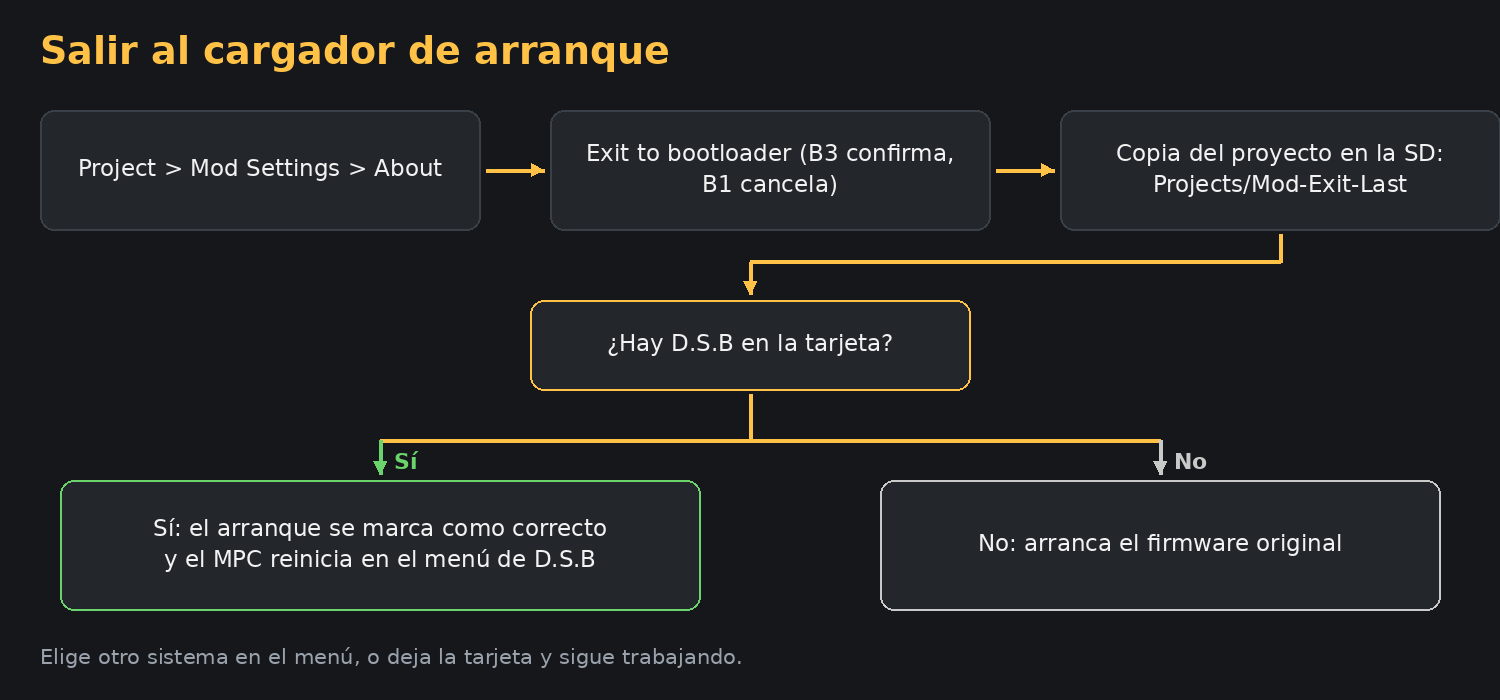
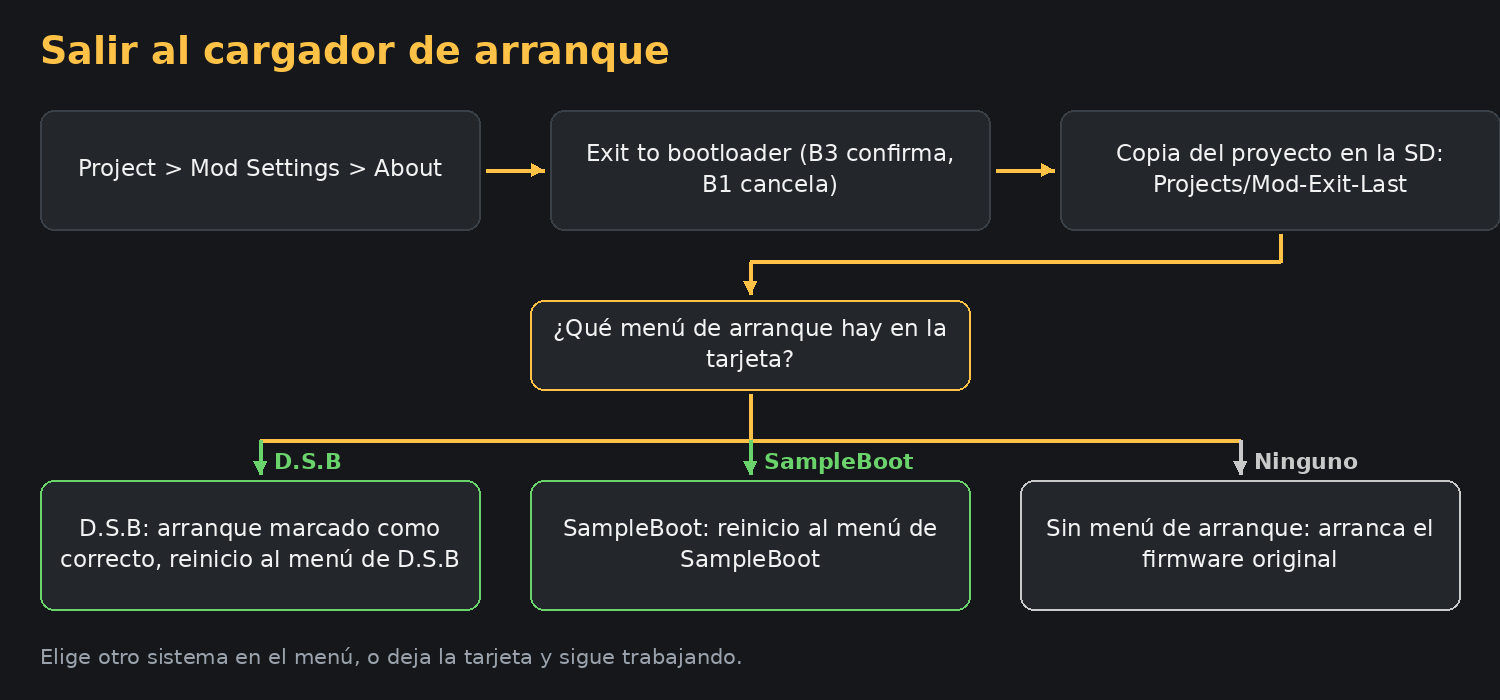
docs: exit-to-bootloader diagram shows SampleBoot; overview image without beta label

diff --git a/docs/media/r30d/build_images.py b/docs/media/r30d/build_images.py
@@ -15,22 +15,25 @@ T = {
   title="Am MOD synth: five modules, nine pages",
   sub="Hold Loop and press a pad (13-16 and 9), or use + / -. The DATA encoder flips the pages of a module. Shift shows the hidden parameter above each knob.",
   caps={"synth-osc":"Tone 1/2 - Oscillators: Wave, Osc2, Sub","synth-amp":"Envelope 1/2 - Amp ADSR, Velocity","synth-keys":"Keys - 16 Levels, as the Tune tab","synth-filter":"Filter + LFO - Filter, Resonance, Key track","synth-voices":"Voices - Unison, Detune, Spread, Glide","synth-controller":"Controller - Fader, Bend range, MIDI channel"},
-  lbl_yes="Yes", lbl_no="No", flow_title="Exit to bootloader", flow=["Project > Mod Settings > About","Exit to bootloader  (B3 confirm, B1 cancel)","Project copy saved to SD: Projects/Mod-Exit-Last","D.S.B on the card?"],
-  yes="Yes: the start is marked healthy,\nthe MPC reboots into the D.S.B menu", no="No: stock firmware starts",
+  lbl_yes="Yes", lbl_no="No", flow_title="Exit to bootloader", flow=["Project > Mod Settings > About","Exit to bootloader  (B3 confirm, B1 cancel)","Project copy saved to SD: Projects/Mod-Exit-Last","Which boot menu is on the card?"],
+  l1="D.S.B", l2="SampleBoot", l3="None",
+  yes="D.S.B: start marked healthy, reboot into the D.S.B menu", sb="SampleBoot: reboot into the SampleBoot menu", no="No boot menu: stock firmware starts",
   foot="Pick another system in the menu - or leave the card in and keep working.", ov="Synth, Input ROUTE, Piano Roll area select, bootloader exit"),
  "ru": dict(
   title="Синтезатор Am MOD: пять модулей, девять страниц",
   sub="Удерживайте Loop и нажмите пэд (13-16 и 9) или используйте + / -. Энкодер DATA листает страницы модуля. Shift показывает скрытый параметр над каждой ручкой.",
   caps={"synth-osc":"Tone 1/2 - осцилляторы: Wave, Osc2, Sub","synth-amp":"Envelope 1/2 - ADSR усилителя, Velocity","synth-keys":"Keys - 16 Levels, как вкладка Tune","synth-filter":"Filter + LFO - Filter, Resonance, Key track","synth-voices":"Voices - Unison, Detune, Spread, Glide","synth-controller":"Controller - Fader, Bend range, MIDI-канал"},
-  lbl_yes="Да", lbl_no="Нет", flow_title="Выход в загрузчик", flow=["Project > Mod Settings > About","Exit to bootloader  (B3 - подтвердить, B1 - отмена)","Копия проекта на SD: Projects/Mod-Exit-Last","На карте есть D.S.B?"],
-  yes="Да: запуск помечается как успешный,\nMPC перезагружается в меню D.S.B", no="Нет: запускается штатная прошивка",
+  lbl_yes="Да", lbl_no="Нет", flow_title="Выход в загрузчик", flow=["Project > Mod Settings > About","Exit to bootloader  (B3 - подтвердить, B1 - отмена)","Копия проекта на SD: Projects/Mod-Exit-Last","Какое меню загрузки на карте?"],
+  l1="D.S.B", l2="SampleBoot", l3="Нет",
+  yes="D.S.B: запуск помечен успешным, перезагрузка в меню D.S.B", sb="SampleBoot: перезагрузка в меню SampleBoot", no="Меню загрузки нет: запускается штатная прошивка",
   foot="Выберите в меню другую систему - либо оставьте карту и продолжайте работу.", ov="Синт, Input ROUTE, выделение области в пианоролле, выход в загрузчик"),
  "es": dict(
   title="Sintetizador de Am MOD: cinco módulos, nueve páginas",
   sub="Mantén Loop y pulsa un pad (13-16 y 9), o usa + / -. El encoder DATA pasa las páginas de un módulo. Shift muestra el parámetro oculto sobre cada mando.",
   caps={"synth-osc":"Tone 1/2 - osciladores: Wave, Osc2, Sub","synth-amp":"Envelope 1/2 - ADSR del amplificador, Velocity","synth-keys":"Keys - 16 Levels, como la pestaña Tune","synth-filter":"Filter + LFO - Filter, Resonance, Key track","synth-voices":"Voices - Unison, Detune, Spread, Glide","synth-controller":"Controller - Fader, Bend range, canal MIDI"},
-  lbl_yes="Sí", lbl_no="No", flow_title="Salir al cargador de arranque", flow=["Project > Mod Settings > About","Exit to bootloader  (B3 confirma, B1 cancela)","Copia del proyecto en la SD: Projects/Mod-Exit-Last","¿Hay D.S.B en la tarjeta?"],
-  yes="Sí: el arranque se marca como correcto\ny el MPC reinicia en el menú de D.S.B", no="No: arranca el firmware original",
+  lbl_yes="Sí", lbl_no="No", flow_title="Salir al cargador de arranque", flow=["Project > Mod Settings > About","Exit to bootloader  (B3 confirma, B1 cancela)","Copia del proyecto en la SD: Projects/Mod-Exit-Last","¿Qué menú de arranque hay en la tarjeta?"],
+  l1="D.S.B", l2="SampleBoot", l3="Ninguno",
+  yes="D.S.B: arranque marcado como correcto, reinicio al menú de D.S.B", sb="SampleBoot: reinicio al menú de SampleBoot", no="Sin menú de arranque: arranca el firmware original",
   foot="Elige otro sistema en el menú, o deja la tarjeta y sigue trabajando.", ov="Sintetizador, Input ROUTE, selección de área en Piano Roll, salida al cargador"),
 }
 ORDER = ["synth-osc", "synth-amp", "synth-keys", "synth-filter", "synth-voices", "synth-controller"]
@@ -78,15 +81,18 @@ def flow(lang):
     qx0 = (W-bw)//2; qy0 = 300
     box(d, (qx0, qy0, qx0+bw, qy0+90), t["flow"][3], f, outline=AMB)
     d.line((xs[2]+bw//2, y+bh+4, xs[2]+bw//2, 262), fill=AMB, width=4); d.line((xs[2]+bw//2, 262, qx0+bw//2, 262), fill=AMB, width=4); arrow(d, (qx0+bw//2, 262), (qx0+bw//2, qy0-6))
-    yw, nw, y2 = 640, 560, 480
-    yx = 60; nx = W-60-nw
-    box(d, (yx, y2, yx+yw, y2+130), t["yes"], f, outline="#6bd36b")
-    box(d, (nx, y2, nx+nw, y2+130), t["no"], f, outline="#c9c9c9")
-    bus = 440; yc = yx+yw//2; nc = nx+nw//2
-    d.line((qx0+bw//2, qy0+90+4, qx0+bw//2, bus), fill=AMB, width=4)
-    d.line((yc, bus, nc, bus), fill=AMB, width=4)
-    arrow(d, (yc, bus), (yc, y2-6), "#6bd36b"); arrow(d, (nc, bus), (nc, y2-6), "#c9c9c9")
-    d.text((yc+14, bus+8), t["lbl_yes"], font=font(22, True), fill="#6bd36b"); d.text((nc+14, bus+8), t["lbl_no"], font=font(22, True), fill="#c9c9c9")
+    bw3, y2, bus = 440, 480, 440
+    xs3 = [40, 530, 1020]
+    cols = ["#6bd36b", "#6bd36b", "#c9c9c9"]
+    texts = [t["yes"], t["sb"], t["no"]]
+    labels = [t["l1"], t["l2"], t["l3"]]
+    qc = qx0+bw//2
+    d.line((qc, qy0+90+4, qc, bus), fill=AMB, width=4)
+    d.line((xs3[0]+bw3//2, bus, xs3[2]+bw3//2, bus), fill=AMB, width=4)
+    for x3, col, tx, lb in zip(xs3, cols, texts, labels):
+        box(d, (x3, y2, x3+bw3, y2+130), tx, f, outline=col)
+        arrow(d, (x3+bw3//2, bus), (x3+bw3//2, y2-6), col)
+        d.text((x3+bw3//2+14, bus+8), lb, font=font(22, True), fill=col)
     d.text((40, 644), t["foot"], font=font(21), fill=GREY)
     im.save(H/f"exit-bootloader-{lang}.png")
 def overview(lang):
@@ -94,7 +100,7 @@ def overview(lang):
     names = ["synth-osc", "synth-keys", "synth-filter", "synth-voices"]
     W = 2*w + 3*gap; Hh = 110 + 2*h + 3*gap
     im = Image.new("RGB", (W, Hh), BG); d = ImageDraw.Draw(im)
-    d.text((gap, 22), "Am MOD r30d beta1", font=font(40, True), fill=AMB)
+    d.text((gap, 22), "Am MOD r30d", font=font(40, True), fill=AMB)
     d.text((gap, 72), t["ov"], font=font(22), fill=GREY)
     for i, n in enumerate(names):
         x = gap + (i % 2)*(w+gap); yy = 110 + (i//2)*(h+gap)
